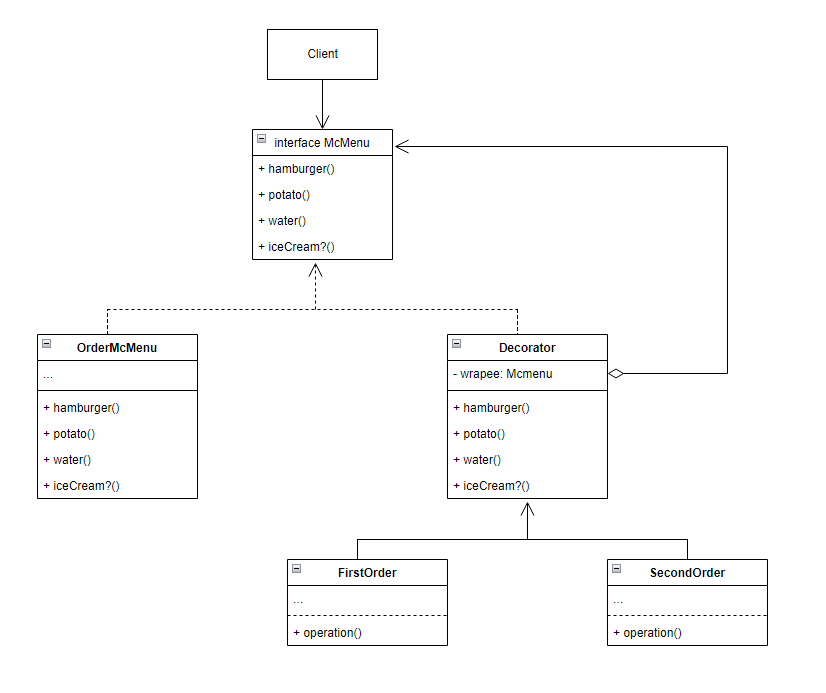
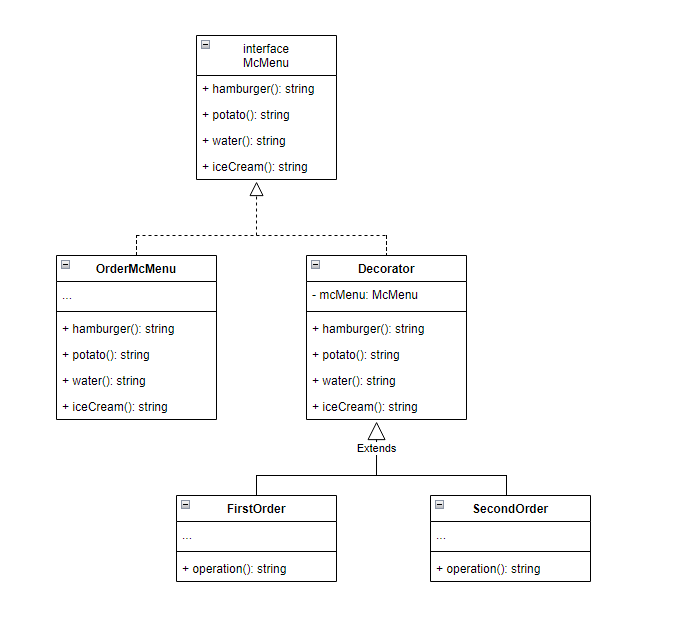
Add files via upload

diff --git a/Structural (Структурні)/Decorator/script.ts b/Structural (Структурні)/Decorator/script.ts
@@ -3,7 +3,7 @@ interface McMenu{
     hamburger(): string;
     potato(): string;
     water(): string;
-    iceCream?(): string;
+    iceCream(): string;
 
 }
 
@@ -29,9 +29,9 @@ class OrderMcMenu implements McMenu{
 
 class Decorator implements McMenu{
 
-    protected mcMenu: mcMenu;
+    protected mcMenu: McMenu;
     
-    constructor(mcMenu: mcMenu) {
+    constructor(mcMenu: McMenu) {
         this.mcMenu = mcMenu;
     }
 
